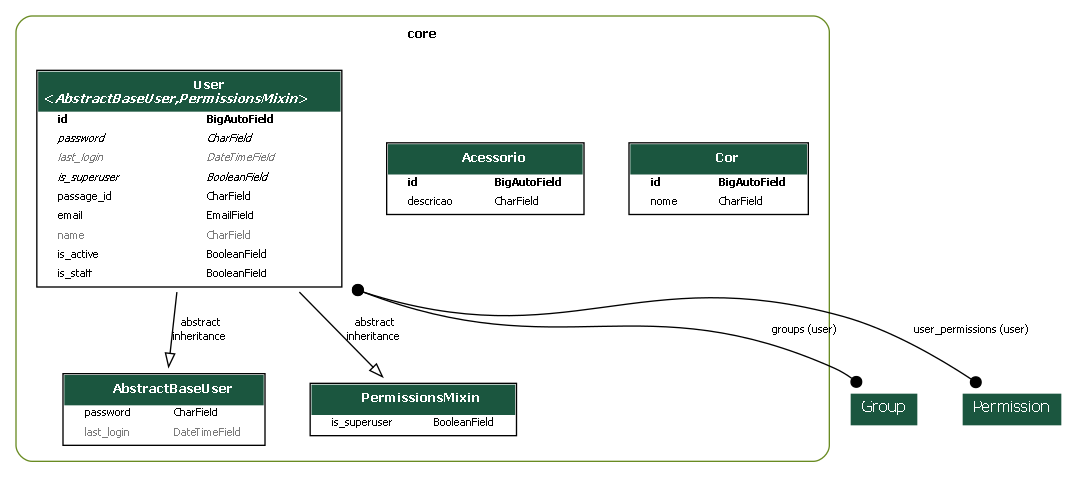
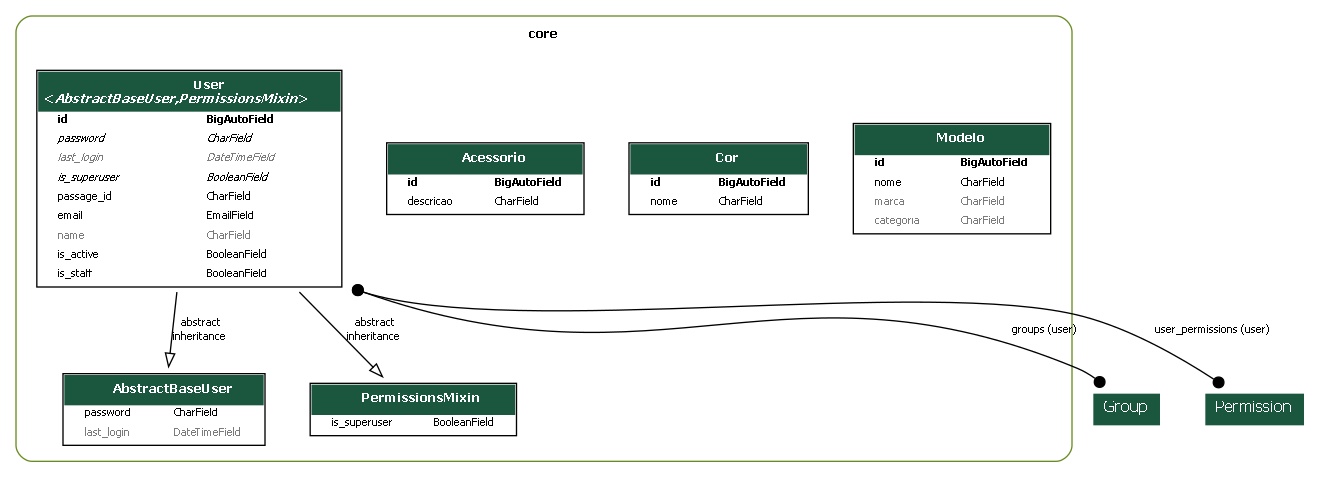
Feat: Criação API Modelo

diff --git a/core/migrations/0007_modelo.py b/core/migrations/0007_modelo.py
@@ -1,0 +1,22 @@
+# Generated by Django 5.1.7 on 2025-05-06 01:47
+
+from django.db import migrations, models
+
+
+class Migration(migrations.Migration):
+
+    dependencies = [
+        ('core', '0006_cor'),
+    ]
+
+    operations = [
+        migrations.CreateModel(
+            name='Modelo',
+            fields=[
+                ('id', models.BigAutoField(auto_created=True, primary_key=True, serialize=False, verbose_name='ID')),
+                ('nome', models.CharField(max_length=80)),
+                ('marca', models.CharField(blank=True, max_length=80, null=True)),
+                ('categoria', models.CharField(blank=True, max_length=80, null=True)),
+            ],
+        ),
+    ]

diff --git a/app/urls.py b/app/urls.py
@@ -11,12 +11,14 @@ from rest_framework.routers import DefaultRouter
 from core.views import UserViewSet
 from core.views import AcessorioViewSet
 from core.views import CorViewSet
+from core.views import ModeloViewSet
 
 router = DefaultRouter()
 
 router.register(r"acessorios", AcessorioViewSet, basename="acessorios")
 router.register(r'usuarios', UserViewSet, basename='usuarios')
 router.register(r'cores', CorViewSet, basename='cores')
+router.register(r'modelos', ModeloViewSet, basename='modelos')
 
 urlpatterns = [
     path('admin/', admin.site.urls),

diff --git a/core/models/modelo.py b/core/models/modelo.py
@@ -1,0 +1,9 @@
+from django.db import models
+
+class Modelo(models.Model):
+    nome = models.CharField(max_length=80)
+    marca = models.CharField(max_length=80, null=True, blank=True)
+    categoria = models.CharField(max_length=80, null=True, blank=True)
+
+    def __str__(self):
+        return f'({self.id}) {self.marca.upper()} - {self.nome.upper()}'

diff --git a/core/views/modelo.py b/core/views/modelo.py
@@ -1,0 +1,7 @@
+from rest_framework.viewsets import ModelViewSet
+from core.serializers import ModeloSerializer
+from core.models import Modelo
+
+class ModeloViewSet(ModelViewSet):
+    queryset = Modelo.objects.all()
+    serializer_class = ModeloSerializer

diff --git a/core/serializers/modelo.py b/core/serializers/modelo.py
@@ -1,0 +1,7 @@
+from rest_framework.serializers import ModelSerializer
+from core.models import Modelo
+
+class ModeloSerializer(ModelSerializer):
+    class Meta:
+        model = Modelo
+        fields = '__all__'

diff --git a/core/admin.py b/core/admin.py
@@ -10,6 +10,7 @@ from core import models
 
 admin.site.register(models.Acessorio)
 admin.site.register(models.Cor)
+admin.site.register(models.Modelo)
 
 
 class UserAdmin(BaseUserAdmin):

diff --git a/core/serializers/__init__.py b/core/serializers/__init__.py
@@ -1,3 +1,4 @@
 from .user import UserSerializer
 from .acessorio import AcessorioSerializer
 from .cor import CorSerializer
+from .modelo import ModeloSerializer

diff --git a/core/views/__init__.py b/core/views/__init__.py
@@ -1,3 +1,4 @@
 from .user import UserViewSet
 from .acessorio import AcessorioViewSet
 from .cor import CorViewSet
+from .modelo import ModeloViewSet

diff --git a/core/models/__init__.py b/core/models/__init__.py
@@ -1,3 +1,4 @@
 from .user import User
 from .acessorio import Acessorio
 from .cor import Cor
+from .modelo import Modelo
